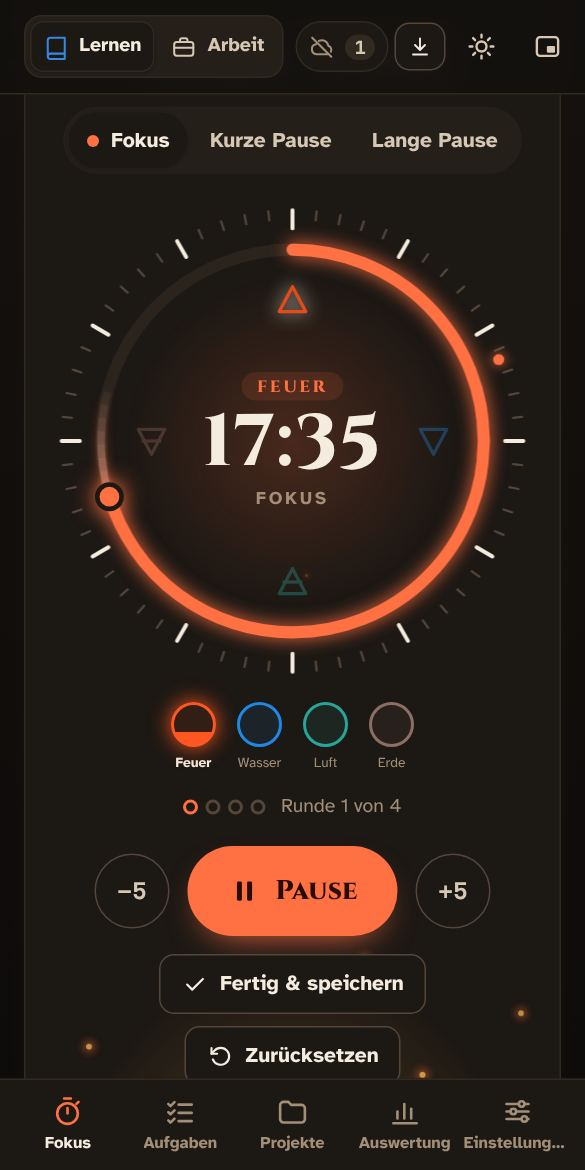
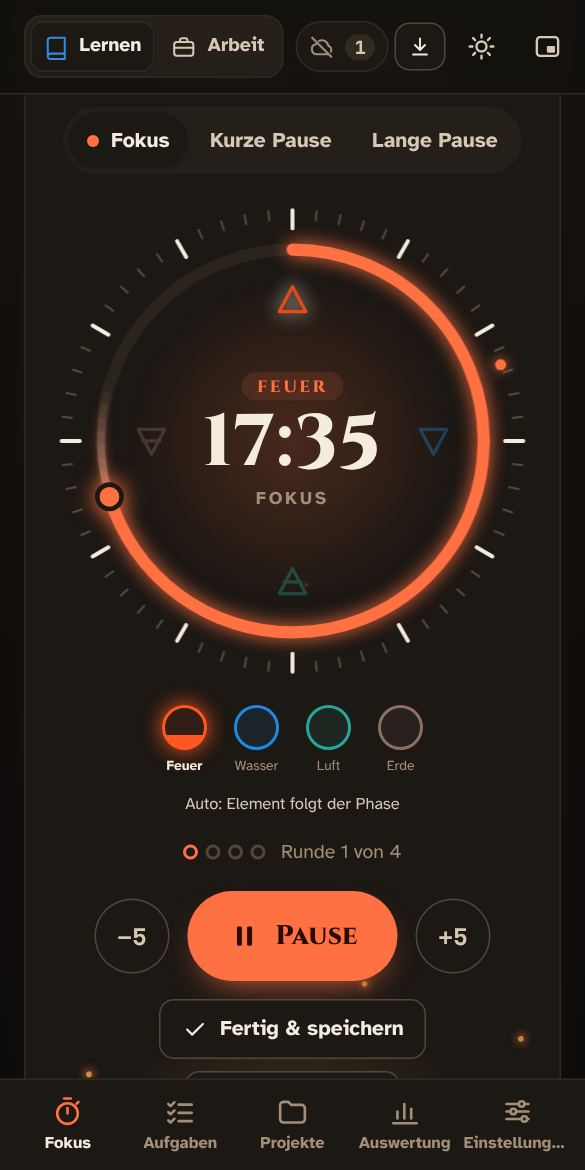
Doku und Startseite: Pausenspiele, 15 Stile, Weihnachten und Halloween
README und STATUS beschreiben die Pausenspiele aller Stile, die Neuerungen
bei Technik, Elemente und Zug sowie die neuen Stile. STATUS vermerkt den
geplanten Technik-Ausbau und den Schaltungsbaukasten. Die Startseite zeigt
eine Spiele-Karte, 15 Stile und neue Bilder.

Claude-Session: https://claude.ai/code/session_018wLpd7XuwVHz8FLiaL89Xf

diff --git a/taktwerk/site/index.html b/taktwerk/site/index.html
@@ -217,8 +217,8 @@
         </article>
         <article class="feature" style="--c: var(--sage)">
           <div class="ic"><svg viewBox="0 0 24 24" fill="none" stroke="currentColor" stroke-width="2" stroke-linecap="round" stroke-linejoin="round" aria-hidden="true"><path d="M12 2l3 7 6 4-6 1-2 6h-2l-2-6-6-1 6-4z"/></svg></div>
-          <h3>Space Rider</h3>
-          <p>Im Stil Sci-Fi wartet in der Pause ein kleines Weltraum-Spiel: Angreifer abschiessen, Extras sammeln, Rekord jagen. Endet die Pause, geht es zurück an die Arbeit.</p>
+          <h3>Ein Spiel für jede Pause</h3>
+          <p>Space Rider, Hummelflug, Grand Prix, Waldjagd, Sudoku, Geschenkejagd, Kürbismann oder Memory: jeder Stil hat sein Spiel. Endet die Pause, geht es zurück an die Arbeit.</p>
         </article>
         <article class="feature" style="--c: var(--sage)">
           <div class="ic"><svg viewBox="0 0 24 24" fill="none" stroke="currentColor" stroke-width="2" stroke-linecap="round" stroke-linejoin="round" aria-hidden="true"><path d="M3 12V4a1 1 0 0 1 1-1h8l9 9-9 9z"/><circle cx="8" cy="8" r="1.5"/></svg></div>
@@ -236,13 +236,13 @@
 
   <section class="block styles" id="stile">
     <div class="wrap">
-      <p class="eyebrow">13 Stile</p>
+      <p class="eyebrow">15 Stile</p>
       <h2>Dein Timer, dein Look.</h2>
       <p class="intro">Jeder Stil hat Tag- und Nachtmodus, eigene Szenen für Fokus, kurze und lange Pause, ein Bild, das mit dem Fortschritt wächst, und feiert jede geschaffte Session.</p>
       <div class="gallery">
         <figure><img src="img/klassisch.jpg" loading="lazy" width="585" height="1170" alt="Stil Klassisch"><figcaption><b>Klassisch</b><span>Glas-Look, Atemkreis in der Pause, Tomate füllt sich</span></figcaption></figure>
         <figure><img src="img/anime.jpg" loading="lazy" width="585" height="1170" alt="Stil Anime"><figcaption><b>Anime</b><span>Blitze, Herzen, Laternenfest, Power-Leiste</span></figcaption></figure>
-        <figure><img src="img/technik.jpg" loading="lazy" width="585" height="1170" alt="Stil Technik"><figcaption><b>Technik</b><span>Oszilloskop: Sinus, Rechteck, Lissajous, LED-Pegel</span></figcaption></figure>
+        <figure><img src="img/technik.jpg" loading="lazy" width="585" height="1170" alt="Stil Technik"><figcaption><b>Technik</b><span>Oszilloskop mit Messcursor zum Anfassen</span></figcaption></figure>
         <figure><img src="img/barock.jpg" loading="lazy" width="585" height="1170" alt="Stil Barock"><figcaption><b>Barock</b><span>Pendel im Zifferblatt, Sanduhr, Kerzen, Feuerwerk</span></figcaption></figure>
         <figure><img src="img/natur.jpg" loading="lazy" width="585" height="1170" alt="Stil Forest"><figcaption><b>Forest</b><span>Pro Pomodoro wächst ein neuer Baum</span></figcaption></figure>
         <figure><img src="img/amtlich.jpg" loading="lazy" width="585" height="1170" alt="Stil Amtlich"><figcaption><b>Amtlich</b><span>Formular, Aktenstapel, Stempel «Erledigt»</span></figcaption></figure>
@@ -251,8 +251,10 @@
         <figure><img src="img/meer.jpg" loading="lazy" width="585" height="1170" alt="Stil Meer"><figcaption><b>Meer</b><span>Fischschwärme, Quallen, Oktopus, Tauchtiefe</span></figcaption></figure>
         <figure><img src="img/flora.jpg" loading="lazy" width="585" height="1170" alt="Stil Flora"><figcaption><b>Flora</b><span>Blütenkranz, Blumenwiese und Bienen</span></figcaption></figure>
         <figure><img src="img/scifi.jpg" loading="lazy" width="585" height="1170" alt="Stil Sci-Fi"><figcaption><b>Sci-Fi</b><span>Raumgefecht und Space Rider in der Pause</span></figcaption></figure>
-        <figure><img src="img/elemente.jpg" loading="lazy" width="585" height="1170" alt="Stil Elemente"><figcaption><b>Elemente</b><span>Feuer, Wasser, Luft und Erde</span></figcaption></figure>
-        <figure><img src="img/zug.jpg" loading="lazy" width="585" height="1170" alt="Stil Zug"><figcaption><b>Zug</b><span>Fahrt durch die Alpen, Halt im Bahnhof</span></figcaption></figure>
+        <figure><img src="img/elemente.jpg" loading="lazy" width="585" height="1170" alt="Stil Elemente"><figcaption><b>Elemente</b><span>Feuer, Wasser, Luft und Erde mit Spektakel</span></figcaption></figure>
+        <figure><img src="img/zug.jpg" loading="lazy" width="585" height="1170" alt="Stil Zug"><figcaption><b>Zug</b><span>SBB-Uhr, fünf Züge, Halt im Bahnhof</span></figcaption></figure>
+        <figure><img src="img/weihnacht.jpg" loading="lazy" width="585" height="1170" alt="Stil Weihnachten"><figcaption><b>Weihnachten</b><span>Lichterkette, Schlitten, Adventskranz</span></figcaption></figure>
+        <figure><img src="img/halloween.jpg" loading="lazy" width="585" height="1170" alt="Stil Halloween"><figcaption><b>Halloween</b><span>Spukhaus, Kürbisse, Spinne zum Ziehen</span></figcaption></figure>
       </div>
     </div>
   </section>

diff --git a/taktwerk/README.md b/taktwerk/README.md
@@ -1,6 +1,6 @@
 # Taktwerk
 
-Pomodoro-Timer und Stechuhr für Lernen und Arbeit: Projekte, Aufgaben, Auswertung und sechs Stile. Läuft im Browser auf Laptop und Handy, lässt sich als App installieren, funktioniert offline und synchronisiert auf Wunsch zwischen deinen Geräten.
+Pomodoro-Timer und Stechuhr für Lernen und Arbeit: Projekte, Aufgaben, Auswertung, 15 Stile und ein Pausenspiel zu jedem Stil. Läuft im Browser auf Laptop und Handy, lässt sich als App installieren, funktioniert offline und synchronisiert auf Wunsch zwischen deinen Geräten.
 
 | | |
 |---|---|
@@ -19,13 +19,20 @@ Die frühere Adresse `…/pomodoro-planer/v2/` leitet automatisch auf die App we
 - **Auswertung** – Woche, Monat, Jahr: Verlauf nach Projekt, Vergleich mit der Vorperiode, Protokoll, Zeit nachtragen, Zusammenfassung zum Kopieren, CSV- und Excel-Export.
 - **Sync** – Mit einem kostenlosen Supabase-Projekt erscheinen Änderungen auf allen Geräten, auch der laufende Timer: auf dem Laptop starten, auf dem Handy pausieren. Offline wird alles lokal gespeichert und später übertragen. Anzeige oben rechts: grün = synchron, gelb = offline, rot = Fehler, grau = nur lokal.
 - **Zeiger ziehen** – den Zeiger auf dem Zifferblatt mit Maus oder Finger verschieben: vorspringen oder verlängern (auch über eine volle Runde hinaus), auf die Sekunde genau bis hinunter auf 5 Sekunden; Pfeiltasten ±1 Minute, mit Umschalt ±10 Sekunden, Bild auf/ab ±5 Minuten.
-- **Space Rider:** kleines Weltraum-Spiel für die Pausen im Stil Sci-Fi (Knopf unter dem Zifferblatt). Pfeiltasten oder WASD steuern, Leertaste schiesst (oder Autofeuer), P oder Esc pausiert; am Handy folgt das Schiff dem Finger. Punkte, Stufen, Extras (Doppelschuss, Schild, Leben) und Rekord. Solange das Spiel offen ist, gehen Tasten nicht an den Timer; endet die Pause, hält das Spiel an.
+- **Pausenspiele:** In jeder Pause öffnet der Knopf unter dem Zifferblatt das Spiel des Stils (Vollbild, Tasten gehen nur ans Spiel, endet die Pause, hält das Spiel an; Rekord je Spiel):
+  - **Space Rider** (Sci-Fi): Weltraum-Shooter mit Extras und Mutterschiff als Boss.
+  - **Hummelflug** (Flora): Nektar sammeln, Wespen stechen, Netze und Vögel meiden.
+  - **Grand Prix** (Rennen): auf der Strecke bleiben, überholen, Boost-Felder, Ölflecken.
+  - **Waldjagd** (Forest): nach Moorhuhn-Art mit Zapfen-Schleuder, Tiere teils hinter Bäumen; Wanderer, Igel, Vogelhaus nicht treffen.
+  - **Sudoku** (Amtlich): vier Stufen, Tipps mit Begründung, gesperrte Felder für die gewählte Zahl, Notizen, Spielstand bleibt.
+  - **Geschenkejagd** (Weihnachten): Elf fängt Geschenke, Kohle meiden. **Kürbismann** (Halloween): nachts im Wald rechtzeitig reagieren.
+  - **Memory** (alle übrigen Stile): Motive passend zum Stil, 6, 8 oder 12 Paare.
 - **Tags und Farben** – Projekte mit Tags (z. B. «Coding», «Lernen», «Admin») und freier Farbe; Tags in Projektkarten, Auswertung «Nach Tag», Verwaltung unter Einstellungen → Tags.
 - **Signale** – sieben synthetische Töne (Glocke, Marimba, Gong, Harfe, Kristall, Vogelruf, Digital), je für Ende Fokus, kurze und lange Pause; Restzeit auf Wunsch ausblenden (nur Zifferblatt).
-- **Darstellung** – Tag, Nacht oder automatisch, «Bewegung» (Aus, Dezent, Lebendig) und 13 Stile. Jeder Stil hat eigene Szenen für Fokus, kurze und lange Pause, ein Bild, das mit dem Fortschritt wächst, eine Einblendung beim Phasenwechsel und eine Feier nach jeder gespeicherten Session:
+- **Darstellung** – Tag, Nacht oder automatisch, «Bewegung» (Aus, Dezent, Lebendig) und 15 Stile. Jeder Stil hat eigene Szenen für Fokus, kurze und lange Pause, ein Bild, das mit dem Fortschritt wächst, eine Einblendung beim Phasenwechsel und eine Feier nach jeder gespeicherten Session:
   - **Klassisch:** Glas-Karten, leuchtendes Zifferblatt, Atemkreis in der Pause, Tomate füllt sich; Konfetti.
   - **Anime:** Tomaten-Chan, Blitze, Herzen, Laternenfest, Power-Leiste; «やった!».
-  - **Technik:** Oszilloskop (Sinus, Rechteck mit Spektrum, Lissajous), Kennwerte, LED-Pegel; Funkenregen.
+  - **Technik:** Oszilloskop: Kurve zieht beim Überfahren elastisch mit, Messcursor X1/X2 mit ΔX, Δt, 1/Δt, RUN/STOP-Taste, in der langen Pause XY-Modus mit Strahl und Nachleuchten; Kennwerte, LED-Pegel; Funkenregen.
   - **Barock:** römische Ziffern, Pendel im Sekundentakt, Sanduhr, Kerzen, Tafelmusik, Feuerwerk.
   - **Forest:** pro Pomodoro wächst ein Baum (jedes Mal eine andere Art), darunter der Wald des Tages; Wind und Sonnenuntergang in den Pausen.
   - **Amtlich:** Formular mit getipptem Status, Aktenstapel, Kaffeepause, Stempel «Pendent» und «Erledigt».
@@ -33,9 +40,11 @@ Die frühere Adresse `…/pomodoro-planer/v2/` leitet automatisch auf die App we
   - **Flug:** Flugzeug als Zeiger, Wolken, Route ZRH → Ziel mit Flughöhe, Looping.
   - **Meer:** Fisch als Zeiger, Fischschwärme, Quallen, Oktopus, Tauchtiefe, Plankton in der Nacht.
   - **Flora:** Biene als Zeiger, Blütenkranz um die Uhr, Kletterrosen, volle Wiese (Tulpen, Margeriten, Sonnenblumen, Mohn, Rosen, Pusteblumen), Bienen, Marienkäfer und Käfer.
-  - **Sci-Fi:** Raumschiff als Zeiger, Warp-Sprung, Raumgefecht im Hintergrund, Radar, Planet mit Ring, HUD, Reise zum Mars. In den Pausen lässt sich **Space Rider** spielen (siehe unten).
-  - **Elemente:** Feuer im Fokus, Wasser in der kurzen, Luft in der langen Pause, Erde in Ruhe; vier Element-Kugeln.
-  - **Zug:** Lok als Zeiger auf dem Gleisring, ein Zug auf dem Gleis, die Landschaft zieht in Ebenen vorbei und die Schwellen laufen mit. Kurze Pause: Halt an einem Bahnhof, lange Pause: Halt im Zürich HB mit Halle, Uhr und Abfahrtstafel.
+  - **Sci-Fi:** Raumschiff als Zeiger, Warp-Sprung, Raumgefecht im Hintergrund, Radar, Planet mit Ring, HUD, Reise zum Mars.
+  - **Elemente:** Feuer im Fokus, Wasser in der kurzen, Luft in der langen Pause, Erde in Ruhe, oder ein Element fest gewählt (Kugeln unter der Uhr). Endet ein Element, folgt ein Spektakel: Flammenmeer mit Brandspuren, Schwall mit Tropfen, Böe, die alles wegstösst, Felssturz, der das Zifferblatt bricht.
+  - **Zug:** SBB-Bahnhofsuhr als Zifferblatt (Kelle mit Halt bei 12), Lok auf dem Gleisring, blauer Himmel mit Wolken oder Sterne. Ein elektrischer Zug (Re 460, Giruno, FLIRT, Krokodil oder Glacier Express) fährt mit dem Fortschritt, durch Wald und über ein Viadukt; festhalten hält den Timer an, nach vorne schieben spult vor. Kurze Pause: Halt an einem Bahnhof, lange Pause: Zürich HB mit Halle, SBB-Uhr und Abfahrtstafel.
+  - **Weihnachten:** Lichterkette, geschmückter Baum, Schneefall, Schlitten mit Rentieren, verschneite Hütte, Tannenkranz um die Uhr, Adventskranz als Fortschritt.
+  - **Halloween:** Spukhügel, Mond, Fledermäuse, Nebel, Kürbisse, Geister, Spinnennetz hinter der Uhr, Hexenkessel als Fortschritt; die Spinne am Faden lässt sich ziehen und federt zurück.
 
 ### Tastenkürzel
 

diff --git a/taktwerk/docs/STATUS.md b/taktwerk/docs/STATUS.md
@@ -33,10 +33,19 @@ die App unter `https://simonbruder-hub.github.io/application_study/taktwerk/app/
 - Flora blumiger (Blütenkranz, Kletterrosen, volle Wiese), Zug mit fahrendem Zug, Bahnhof (kurze Pause) und
   Zürich HB (lange Pause), Sci-Fi mit Raumgefecht und dem Pausenspiel Space Rider (`src/ui/game/`).
 
+- Pausenspiele für alle Stile (`src/ui/game/`): Space Rider mit Boss, Hummelflug, Grand Prix, Waldjagd, Sudoku,
+  Geschenkejagd, Kürbismann, Memory. Neue Stile Weihnachten und Halloween. Elemente-Spektakel und Elementwahl,
+  Technik-Oszilloskop interaktiv, Zug mit SBB-Uhren, Zugwahl und Zug zum Anfassen, Zeiger behält seinen Massstab.
+
 ## Offen
 
 1. **Name und Domain:** «Taktwerk» ist schon vergeben (auch als Firma). Neuen Namen wählen, prüfen (nic.ch, swissreg.ch),
    dann umbenennen (Texte, Manifest, Startseite, Desktop), Pages auf `/` und `/app/` umbauen, Custom Domain und DNS,
    Supabase Site-URL/Redirects und `desktop/loader/index.html` anpassen. Neue Adresse = neuer Browser-Speicher, Daten kommen über Sync zurück.
-2. Optional: eigener Superhelden-Stil (eigene Figur).
-3. Ziel danach: Website mit mehreren Apps (diese ist eine davon), eigene Accounts, online und offline auf allen Geräten.
+2. Technik ausbauen: Cursor auch in Y-Richtung (Umschalter X/Y, Anzeige ΔU), Frequenz, Amplitude und Offset der
+   Kurve einstellbar, Freeze-Taste zum Ablesen.
+3. Pausenspiel Technik: Schaltungsbaukasten (Widerstand, Spule, Kondensator, Quellen), der korrekte Werte berechnet.
+   Vor dem Bau mit dem Nutzer klären: Gleich- oder Wechselstrom, Zeitverläufe (RC, RL, RLC), Symbole nach IEC,
+   Aufgabenstellungen, Lösungsweg mit Formeln, Anbindung an das Oszilloskop.
+4. Optional: eigener Superhelden-Stil (eigene Figur).
+5. Ziel danach: Website mit mehreren Apps (diese ist eine davon), eigene Accounts, online und offline auf allen Geräten.
